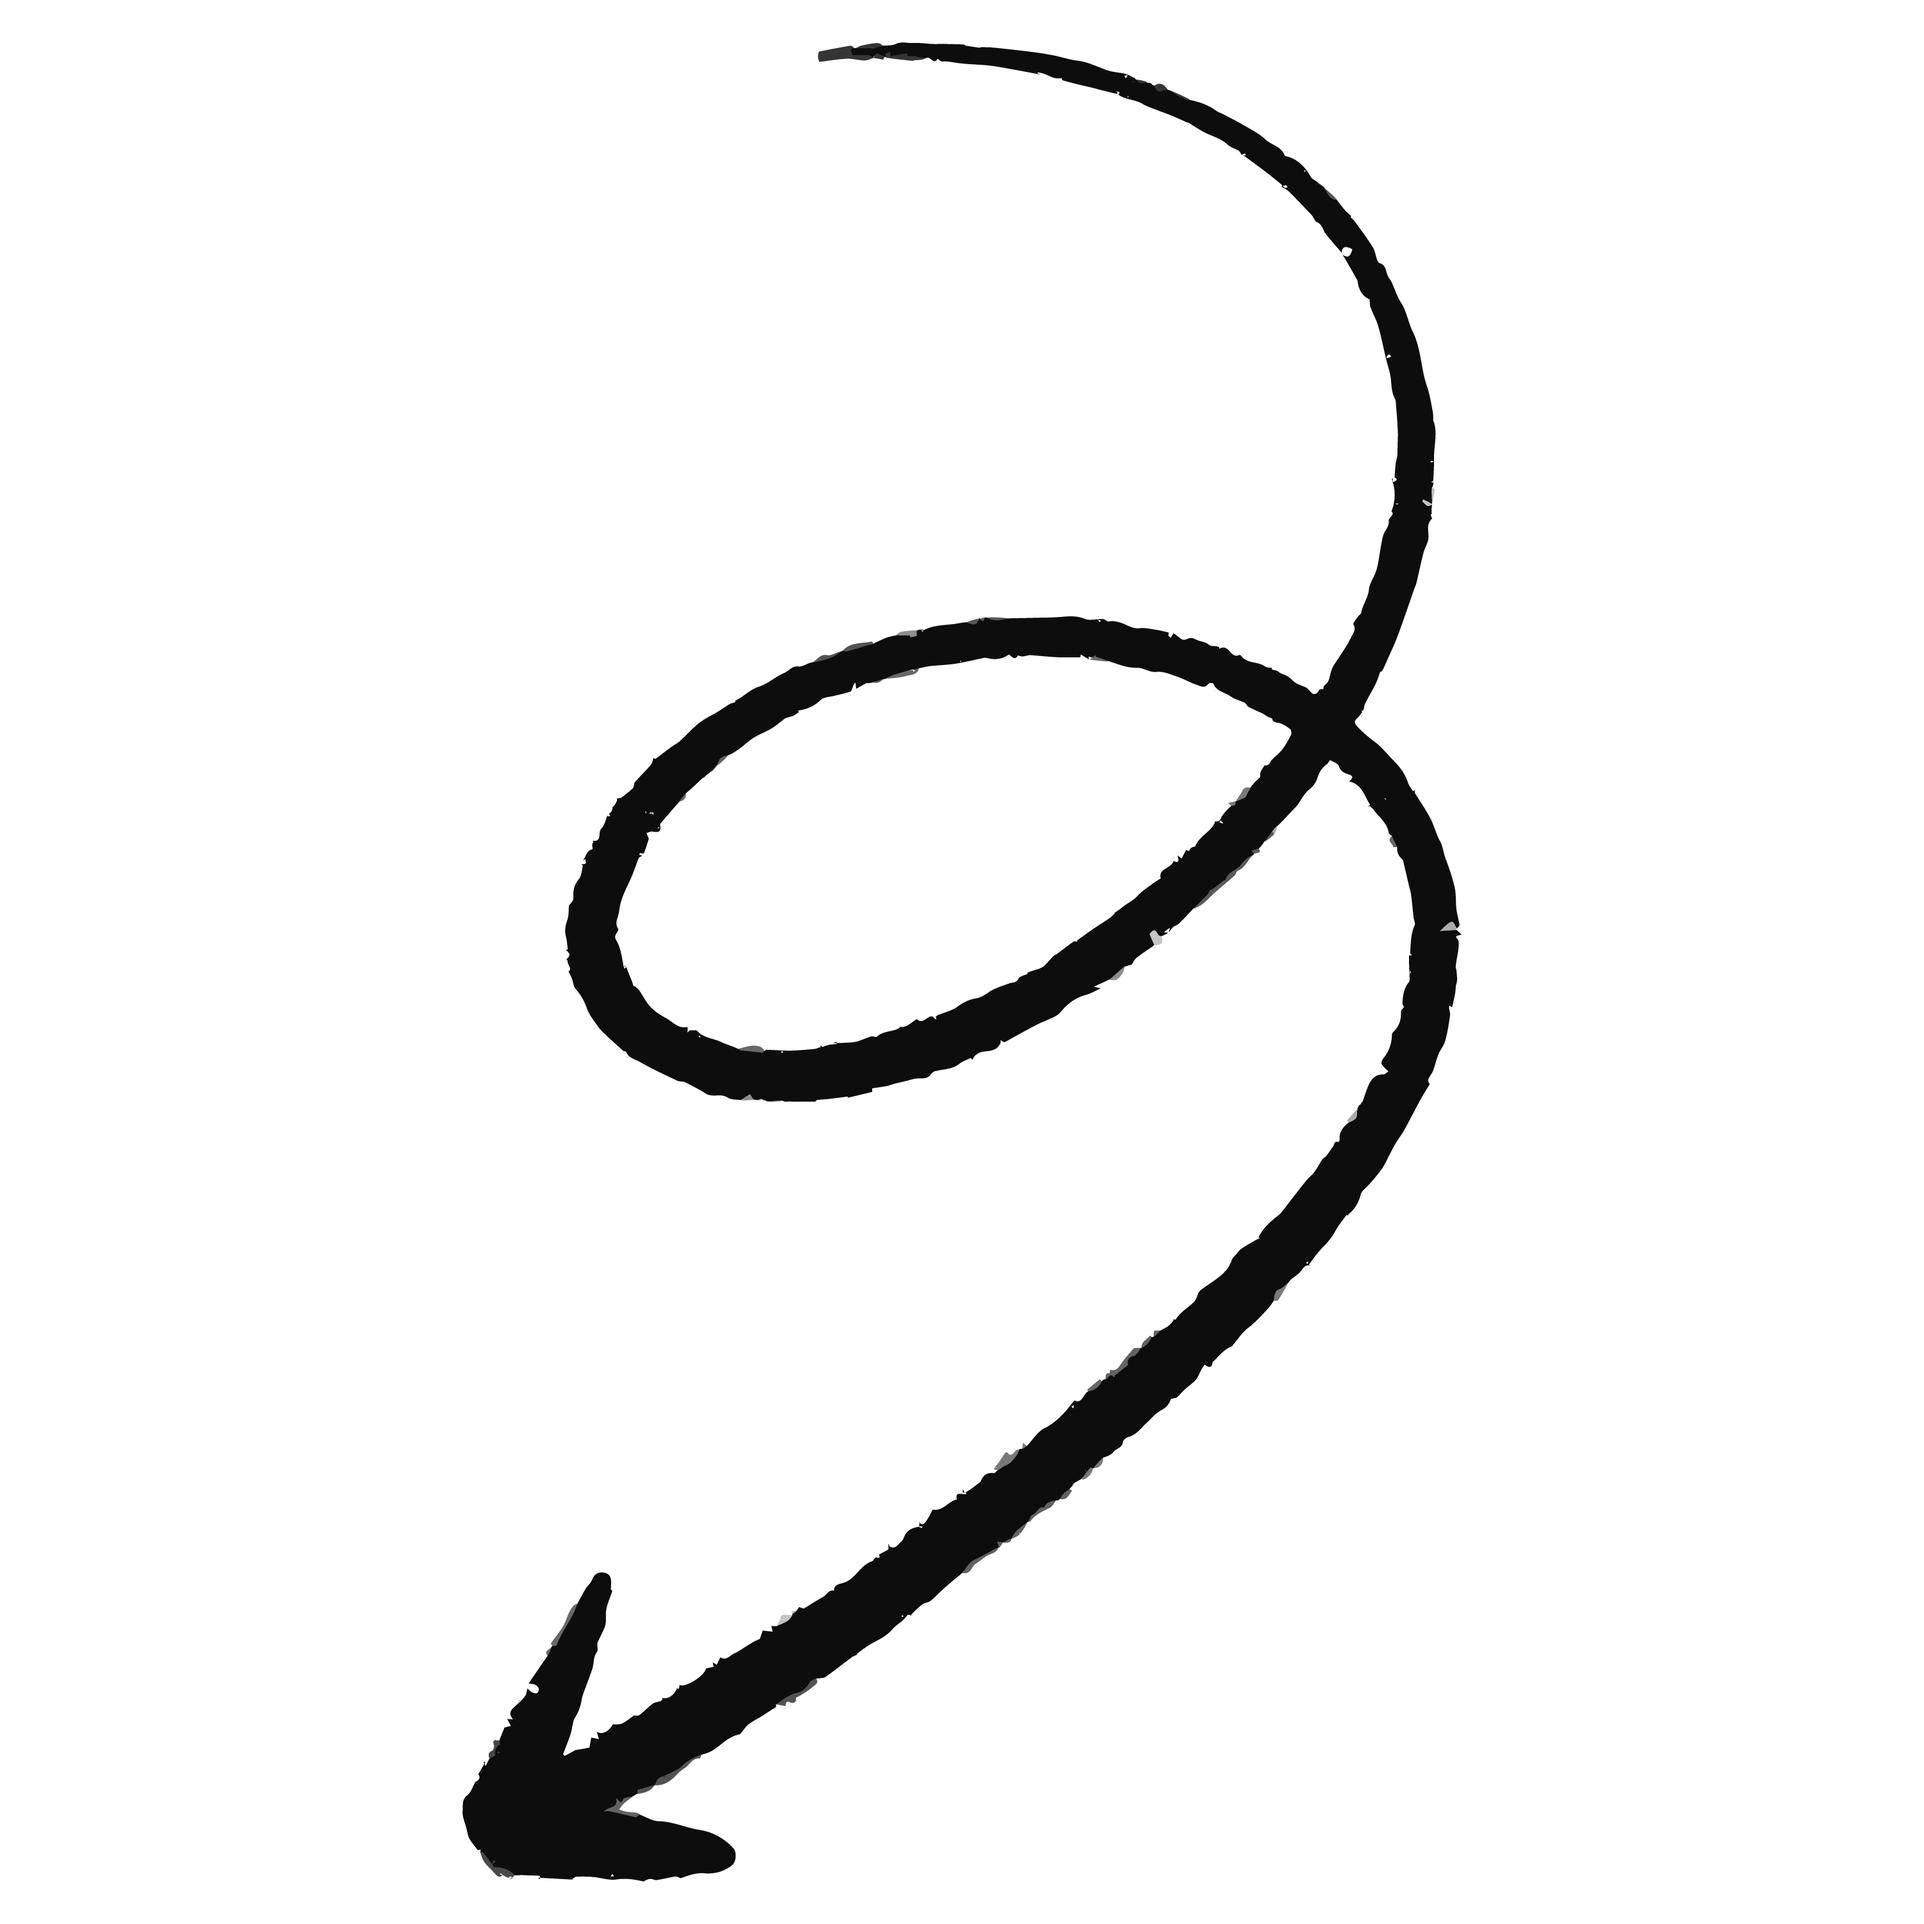
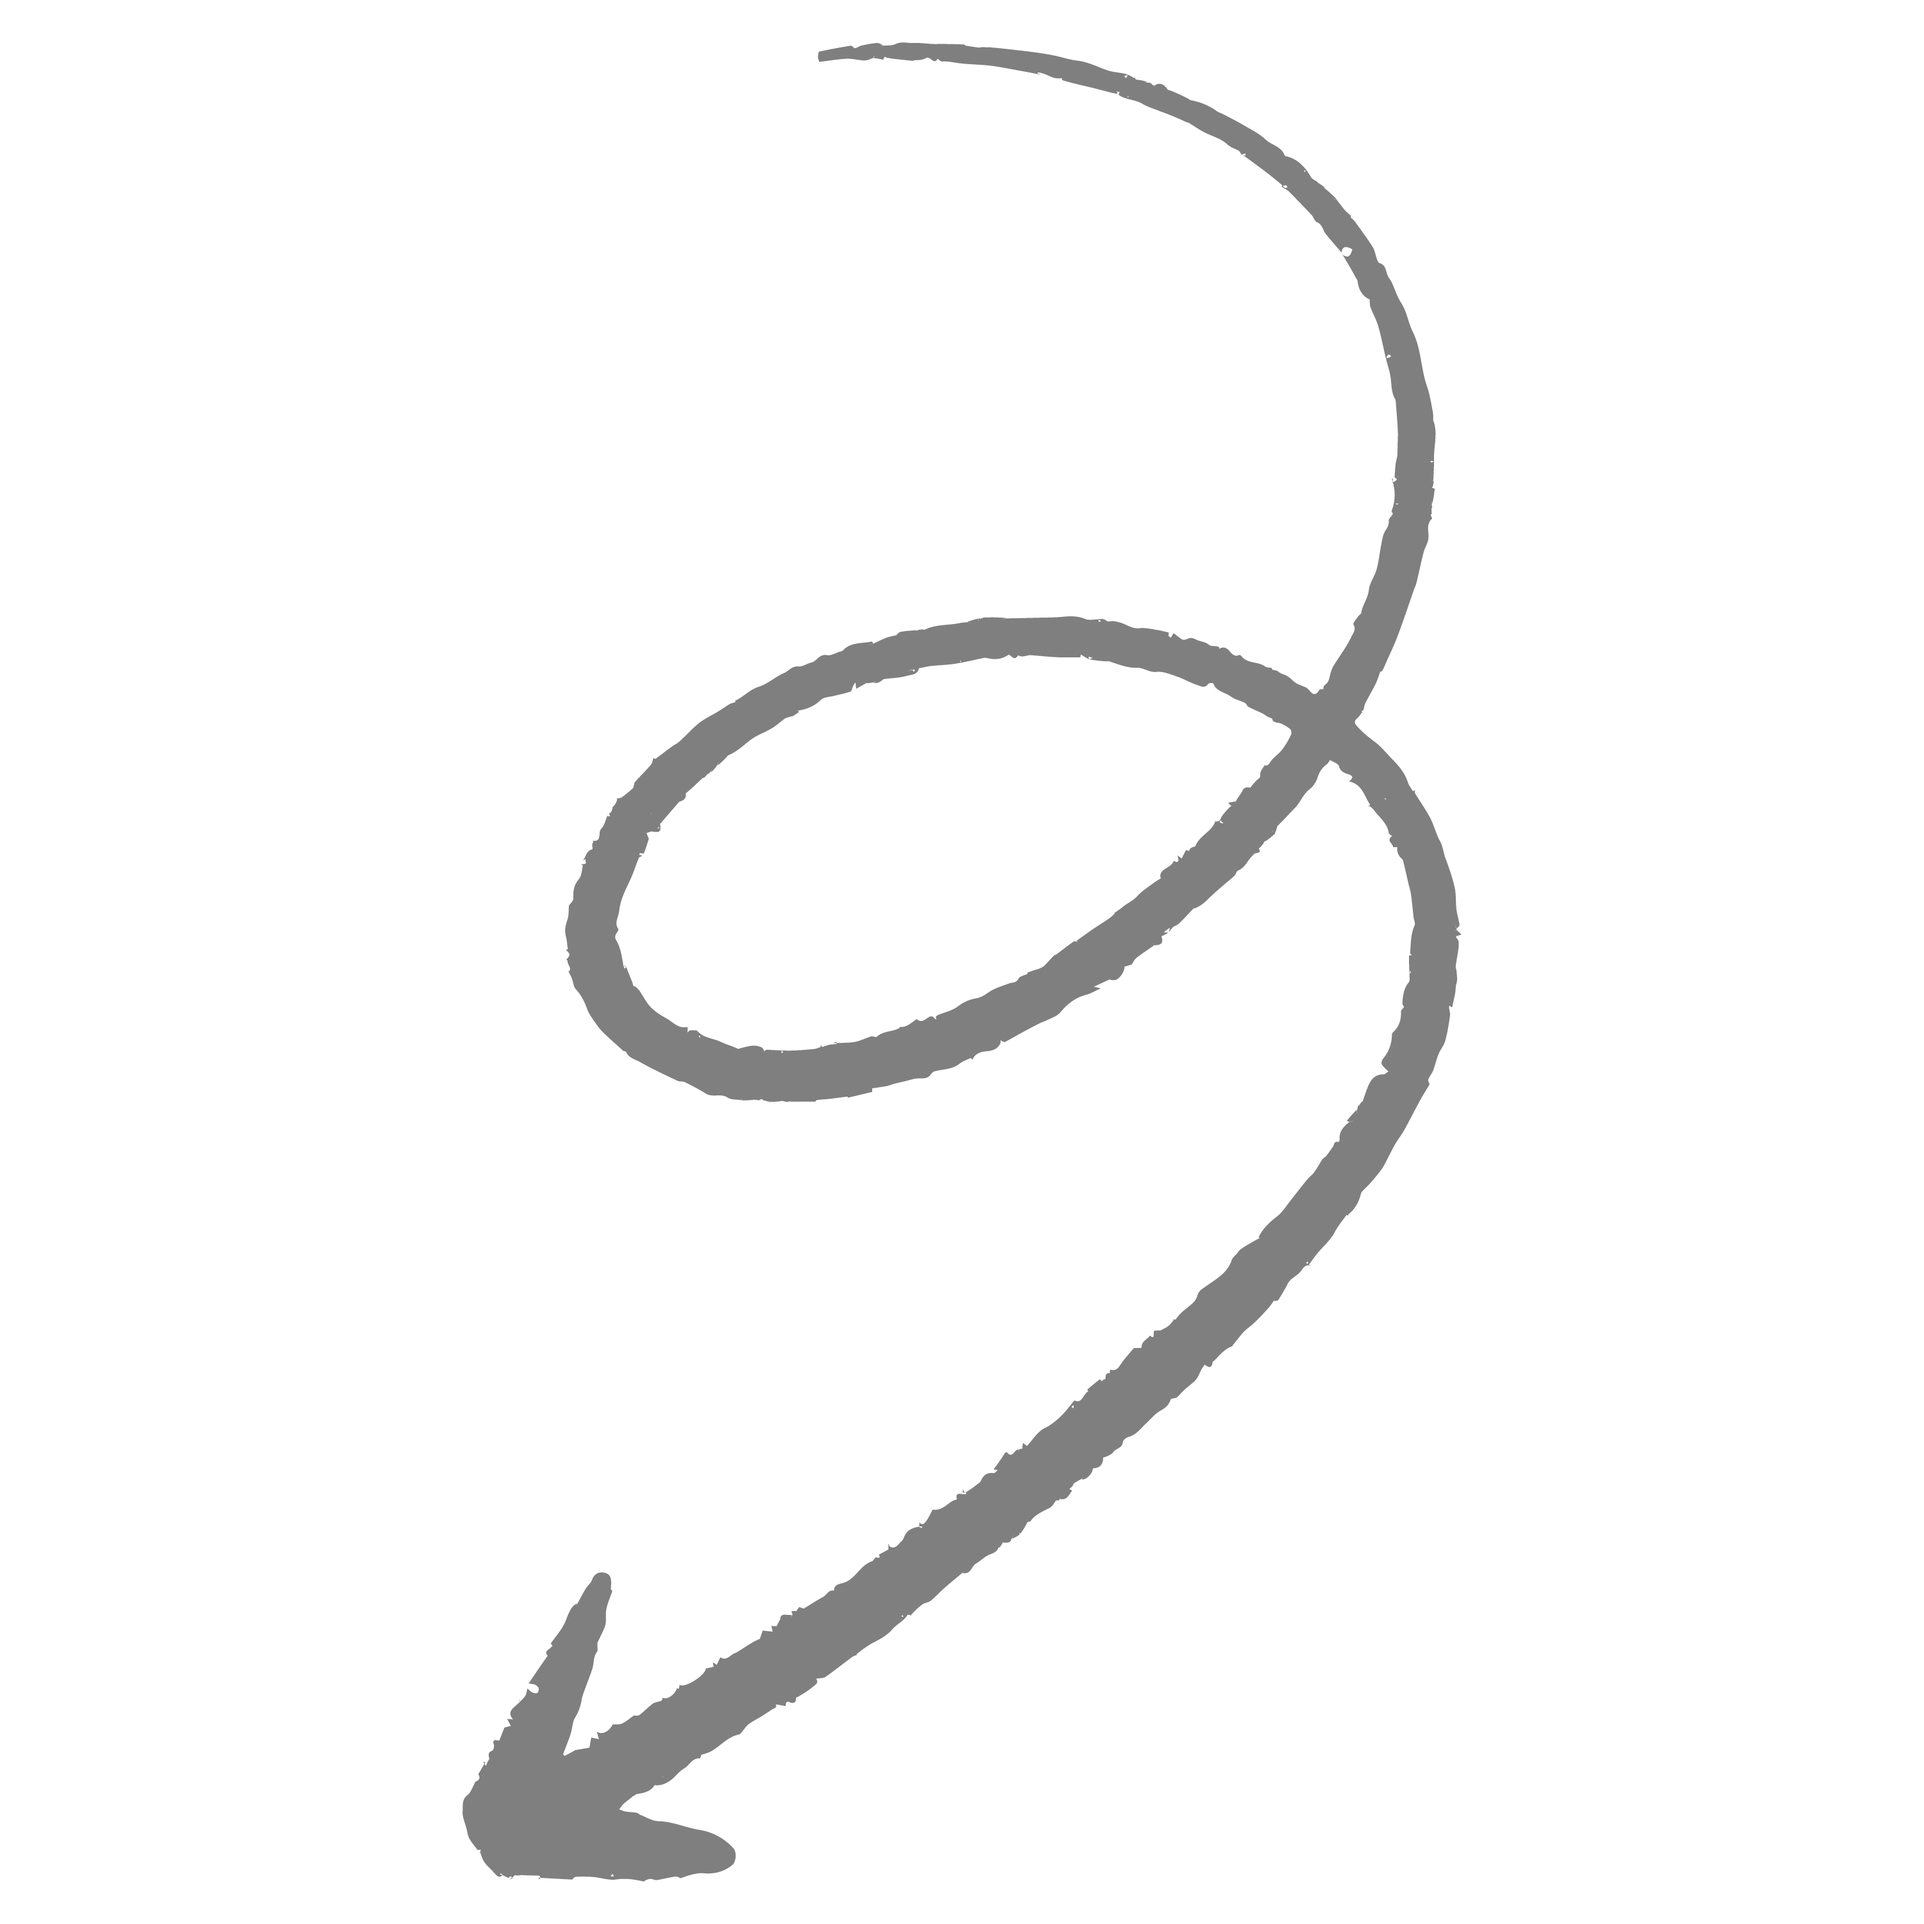
Clean and improve sidebar UI

Changed region(s): [[0.217, 0.0, 0.775, 0.992]]

diff --git a/components/layout/sidebar/Sidebar.tsx b/components/layout/sidebar/Sidebar.tsx
@@ -24,11 +24,9 @@ const Sidebar = () => {
 
   const navItems = [
     { label: "home", href: "/", id: "home" },
-    { label: "about", href: "/#about", id: "about" },
-    { label: "projects", href: "/#projects", id: "projects" },
+    { label: "projects", href: "/projects", id: "projects" },
     { label: "experience", href: "/#experience", id: "experience" },
-    { label: "skills", href: "/#skills", id: "skills" },
-    { label: "certifications", href: "/#certifications", id: "certifications" },
+    { label: "blog", href: "/#blog", id: "blog" },
   ];
 
   // ✅ Determine active menu based on pathname & hash
@@ -63,11 +61,18 @@ const Sidebar = () => {
         </p>
 
         {/* === Navigation Menu === */}
-        <nav className="mt-6 px-8">
+        <nav className="mt-6 px-8 w-full">
           <div className="relative pb-1 mb-4">
             <h2 className="text-xs font-medium text-gray-500 uppercase tracking-wider text-center">Menu</h2>
             <div className="absolute bottom-0 left-1/2 -translate-x-1/2 w-14 h-[1px] bg-gradient-to-r from-gray-200 via-red-400 to-gray-200 rounded-full"></div>
           </div>
+
+          <div className="relative rounded-full mb-6 mx-auto">
+            <div className="absolute right-[35px] top-[-45px] rotate-90">
+              <svg width="80" height="80" viewBox="0 0 81 84" fill="none" xmlns="http://www.w3.org/2000/svg"><g clip-path="url(#clip0_1087_2609)"><path fill-rule="evenodd" clip-rule="evenodd" d="M16.5579 30.5227C22.4725 28.623 28.2492 29.3749 33.4667 31.6508C41.3459 35.0881 47.9522 42.0005 51.8464 48.614C54.2944 52.7702 54.4502 56.7492 55.8651 61.5377C55.9225 61.7316 56.1293 61.8068 56.3272 61.7054C56.5245 61.6049 56.6391 61.3648 56.5811 61.1718C55.1497 56.3272 54.9774 52.3095 52.5011 48.1044C48.5525 41.3988 41.8496 34.3948 33.8601 30.9088C28.4988 28.57 22.5574 27.8153 16.4791 29.7675C16.2743 29.8332 16.1259 30.0549 16.1476 30.2634C16.1694 30.472 16.3531 30.5884 16.5579 30.5227Z" fill="transparent" stroke="#7F7F7F" stroke-width="0.5" pathLength="1" stroke-dashoffset="0px" stroke-dasharray="1px 1px"></path><path fill-rule="evenodd" clip-rule="evenodd" d="M57.0873 62.1097C57.0832 62.0921 57.0533 61.9757 57.0388 61.8734C56.9763 61.45 56.9339 60.6847 56.9361 59.7042C56.947 56.4142 57.4643 50.7129 59.6242 47.3C59.7488 47.1031 59.7164 46.8667 59.5524 46.7716C59.3884 46.6764 59.1547 46.7579 59.0301 46.9548C56.7828 50.5058 56.2014 56.4357 56.1908 59.8586C56.1897 60.317 56.1975 60.7315 56.2135 61.0885C55.5902 60.3287 54.9902 59.5491 54.3985 58.7583C52.6959 56.4811 50.6985 54.9884 48.0625 53.8966C47.8867 53.8232 47.6568 53.9314 47.5515 54.1372C47.4454 54.3425 47.5029 54.5697 47.6794 54.6422C50.2161 55.6936 52.1405 57.1294 53.7796 59.3211C54.5532 60.3542 55.342 61.3695 56.1743 62.3467C56.2571 62.444 56.4755 62.6936 56.5123 62.7223C56.7223 62.886 56.9338 62.7112 56.9791 62.6705C57.0011 62.6509 57.2635 62.3944 57.0873 62.1097ZM56.4268 62.6084C56.4318 62.6161 56.4362 62.6247 56.4419 62.6329C56.4369 62.6266 56.4325 62.618 56.4268 62.6084Z" fill="transparent" stroke="#7F7F7F" stroke-width="0.5" pathLength="1" stroke-dashoffset="0px" stroke-dasharray="1px 1px"></path></g><defs><clipPath id="clip0_1087_2609"><rect width="64.5423" height="52.3374" fill="white" transform="translate(0 51.8329) rotate(-53.4256)"></rect></clipPath></defs></svg>
+            </div>
+          </div>
+
 
           <div className="flex flex-wrap justify-center">
             {navItems.map((item, i) => {
@@ -76,7 +81,7 @@ const Sidebar = () => {
                 <Link
                   key={i}
                   href={item.href}
-                  className={`group inline-flex items-center text-[13px] transition-colors duration-200 ${active ? "text-gray-900 font-semibold" : "text-gray-500 hover:text-gray-900 pl-1"
+                  className={`group inline-flex items-center text-[13px] transition-colors duration-200 ${active ? "text-gray-900 font-semibold" : "text-gray-500 hover:text-gray-900 pl-2"
                     }`}
                 >
                   <span

diff --git a/components/ui/SocialIcons.tsx b/components/ui/SocialIcons.tsx
@@ -22,25 +22,25 @@ type SocialLink = {
 const socialLinks: SocialLink[] = [
   {
     name: "Facebook",
-    href: "https://facebook.com/pradipchaudhary",
+    href: "https://www.facebook.com/itspradipchaudhary/",
     icon: <FaFacebookF size={15} />,
     hoverBg: "hover:bg-blue-500",
   },
   {
     name: "Instagram",
-    href: "https://instagram.com/pradipchaudhary",
+    href: "https://www.instagram.com/itspradipchaudhary/",
     icon: <FaInstagram size={15} />,
     hoverBg: "hover:bg-pink-500",
   },
   {
     name: "Twitter",
-    href: "https://twitter.com/pradipchaudhary",
+    href: "https://x.com/itspradipchy",
     icon: <FaXTwitter size={15} />,
     hoverBg: "hover:bg-sky-500",
   },
   {
     name: "LinkedIn",
-    href: "https://linkedin.com/in/pradipchaudhary",
+    href: "https://www.linkedin.com/in/pradipchaudhary/",
     icon: <FaLinkedinIn size={15} />,
     hoverBg: "hover:bg-blue-600",
   },
@@ -52,7 +52,7 @@ const socialLinks: SocialLink[] = [
   },
   {
     name: "YouTube",
-    href: "https://youtube.com/pradipchaudhary",
+    href: "https://www.youtube.com/@iampradipchaudhary",
     icon: <FaYoutube size={15} />,
     hoverBg: "hover:bg-red-500",
   },
@@ -73,7 +73,7 @@ export default function SocialIcons() {
 
   return (
     <div className="flex items-center gap-5">
-      <div className="flex -space-x-6 relative">
+      <div className="flex -space-x-6 relative ">
         {visibleLinks.map((item, index) => {
           const isHovered = hoveredIndex === index;
 

diff --git a/components/ui/FollowMeSocial.tsx b/components/ui/FollowMeSocial.tsx
@@ -9,7 +9,7 @@ export default function FollowMeSocial() {
 
       {/* Follow Me Text */}
       <p
-        className="text-sm font-medium tracking-wide text-gray-500 rotate-[-10deg]"
+        className="text-sm font-medium tracking-wide text-gray-500 rotate-[-20deg] ml-20 mb-2 opacity-50"
         style={{ fontFamily: "'Patrick Hand', cursive" }}
       >
         Follow Me
@@ -21,7 +21,7 @@ export default function FollowMeSocial() {
         alt="Follow arrow"
         width={100}
         height={100}
-        className="opacity-30 brightness-110 dark:opacity-20 ml-10"
+        className="opacity-40 brightness-110 dark:opacity-40 ml-20"
         priority
       />
 
